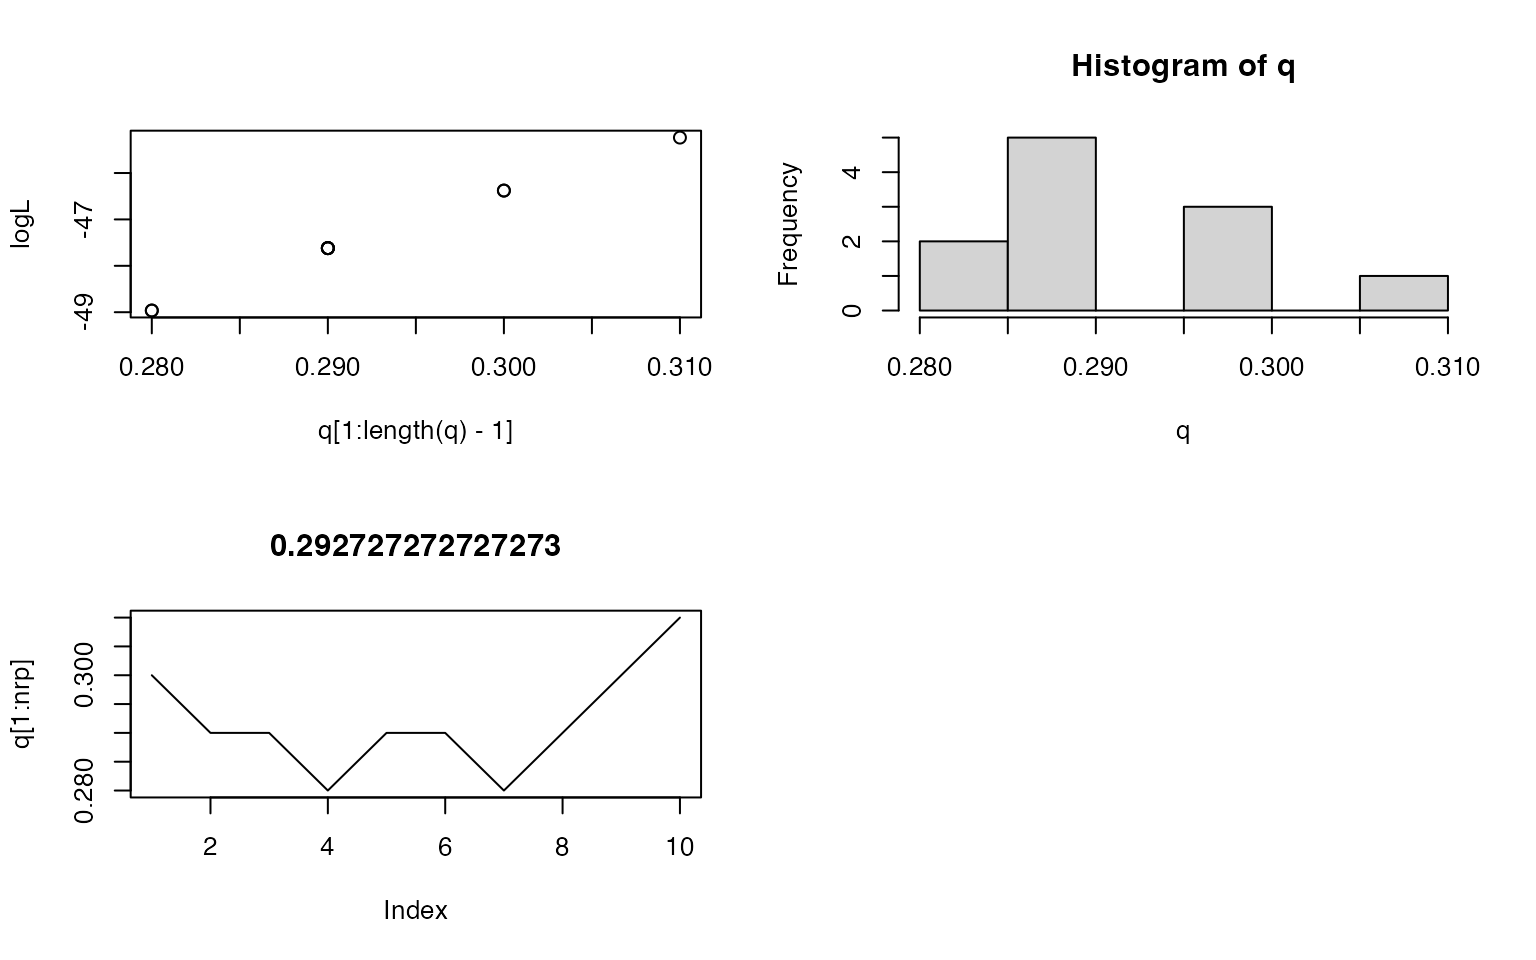
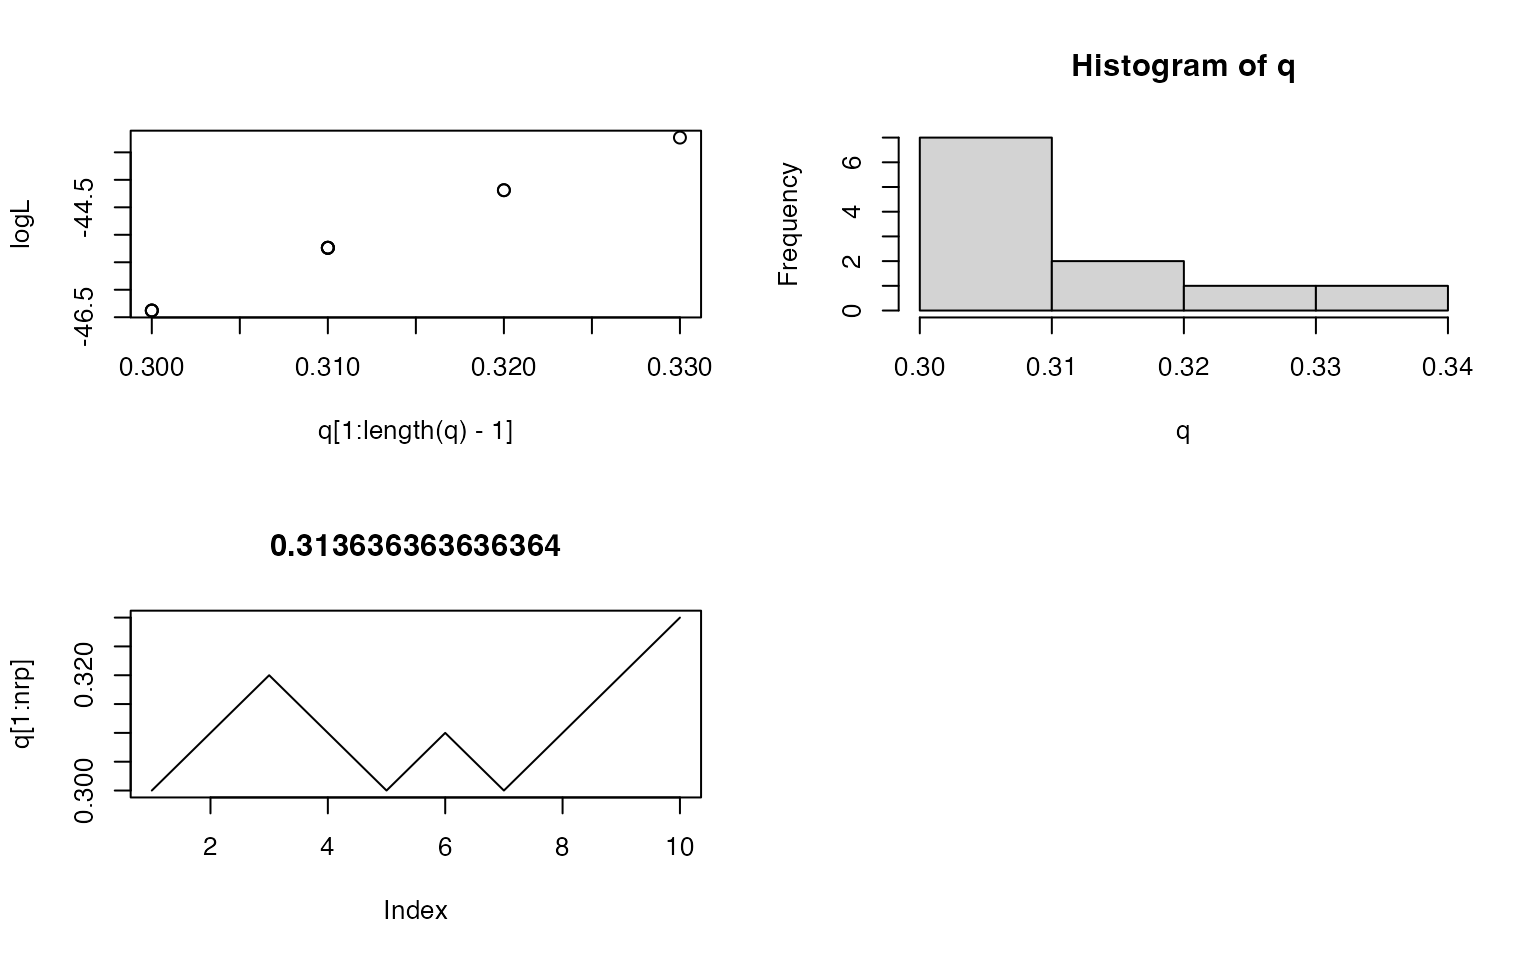
frafra

diff --git a/docs/midori8.html b/docs/midori8.html
@@ -468,7 +468,7 @@ for (rp in 1:nrp){
   }
 }
 print(q)</code></pre>
-<pre><code>##  [1] 0.30 0.29 0.29 0.28 0.29 0.29 0.28 0.29 0.30 0.31 0.30</code></pre>
+<pre><code>##  [1] 0.30 0.31 0.32 0.31 0.30 0.31 0.30 0.31 0.32 0.33 0.34</code></pre>
 <pre class="r"><code>plot(q[1:length(q)-1],logL)
 plot(q[1:nrp],type=&#39;l&#39;, main=mean(q))
 hist(q)</code></pre>
